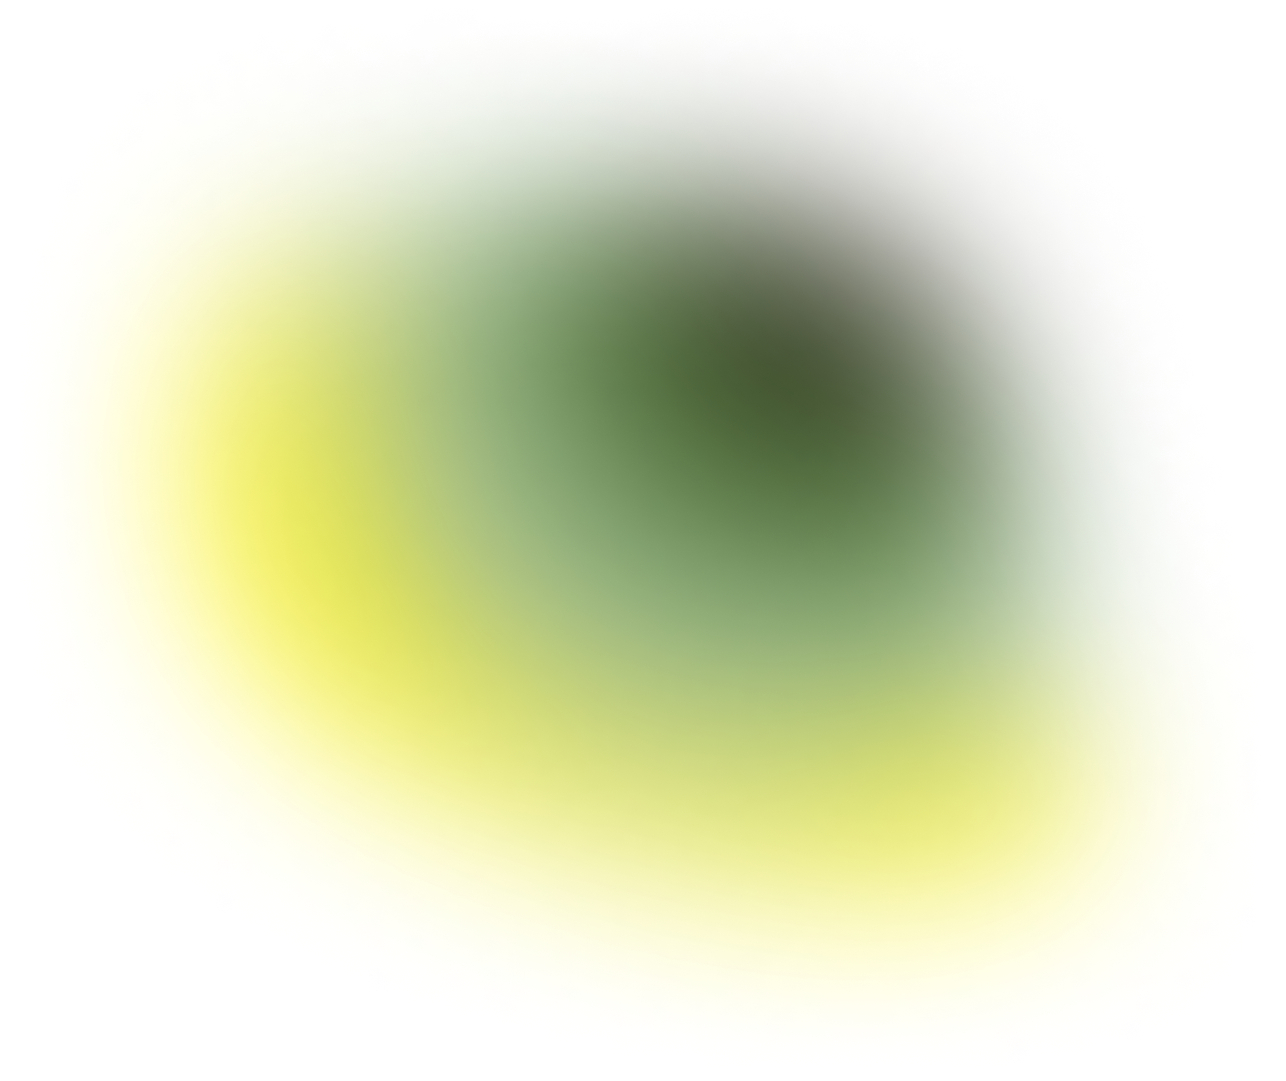
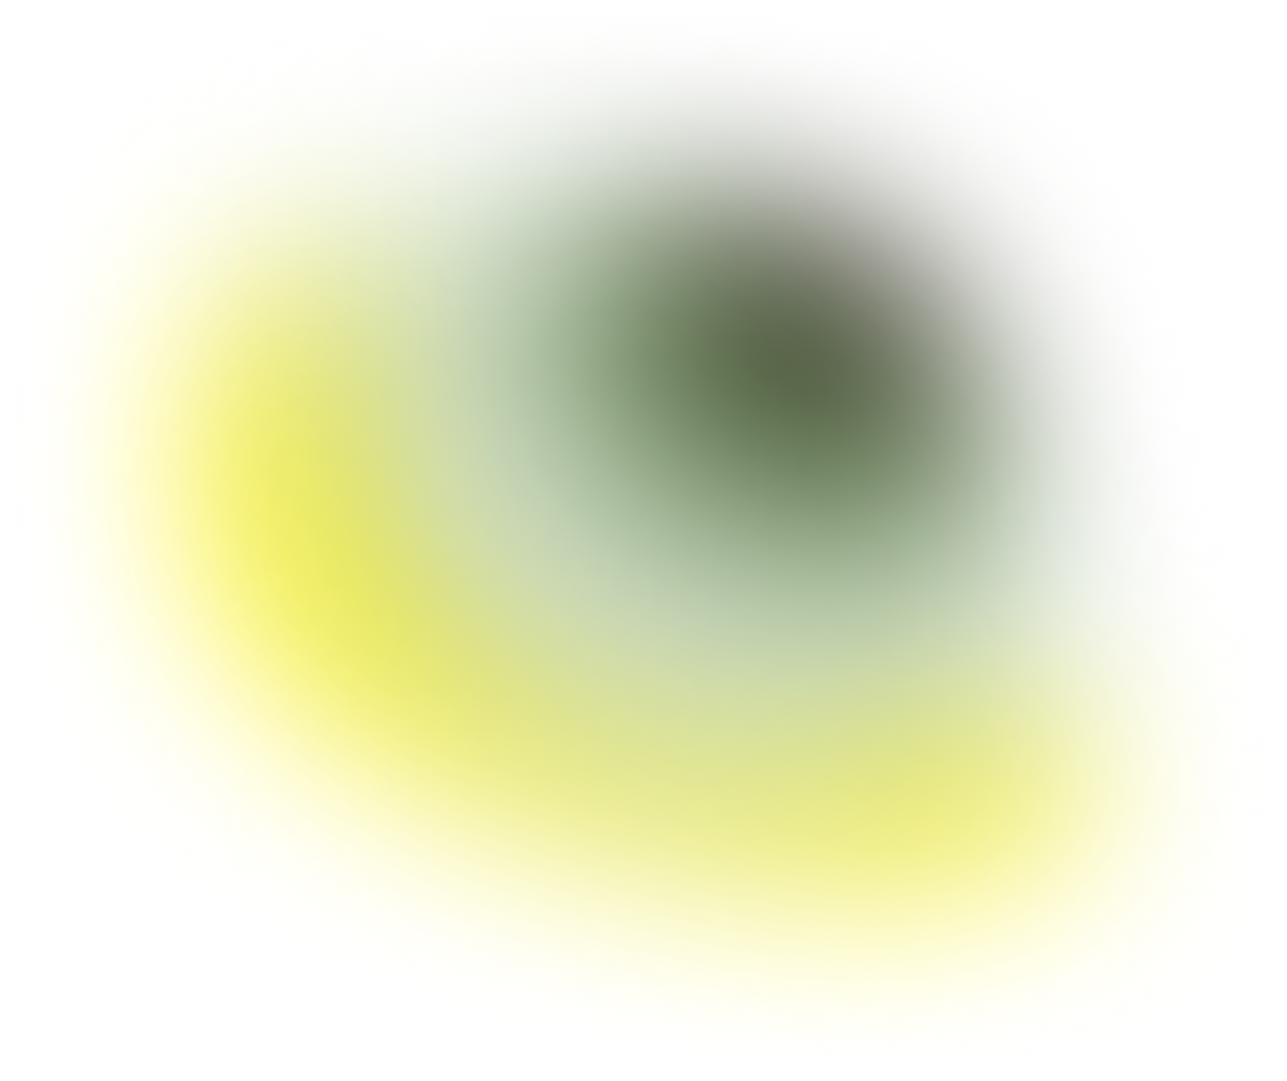
breath fixes v2

Changed region(s): [[0.2799, 0.1526, 0.8087, 0.7021]]

diff --git a/css/2023-style.css b/css/2023-style.css
@@ -251,7 +251,7 @@ img.job-history-img{
 /* animations */
 .breath{
     position: fixed;
-    top:-86%;
+    top:-105%;
     right:-4%;
      z-index: 0;
     box-sizing: border-box;
@@ -263,13 +263,13 @@ img.job-history-img{
     background-image: url("../imgs/greengrad.png");
     animation: breath 24s ease-in-out infinite alternate;
     animation-delay: 6s;
-    opacity: .66;
+    opacity: .88;
 }
 @keyframes breath{
     0% {transform: scale(1) }
     25% {transform: scale(.95);}
     50% {transform: scale(1) }
-    100% {transform: scale(6.2) translateY(100px);}
+    100% {transform: scale(6.2) translateY(50%);}
 }
 @keyframes topo{
     0%{transform: scale(1); rotate: 0deg;}
